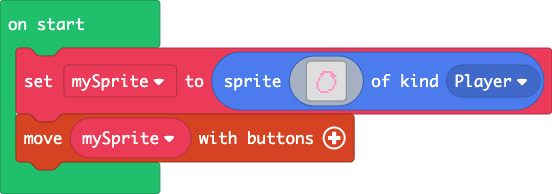
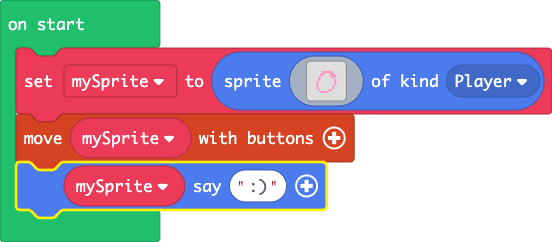
Update main.blocks, main.ts

diff --git a/main.ts b/main.ts
@@ -17,3 +17,4 @@ let mySprite = sprites.create(img`
 . . . . . . . . . . . . . . . . 
 `, SpriteKind.Player)
 controller.moveSprite(mySprite)
+mySprite.say(":)")
